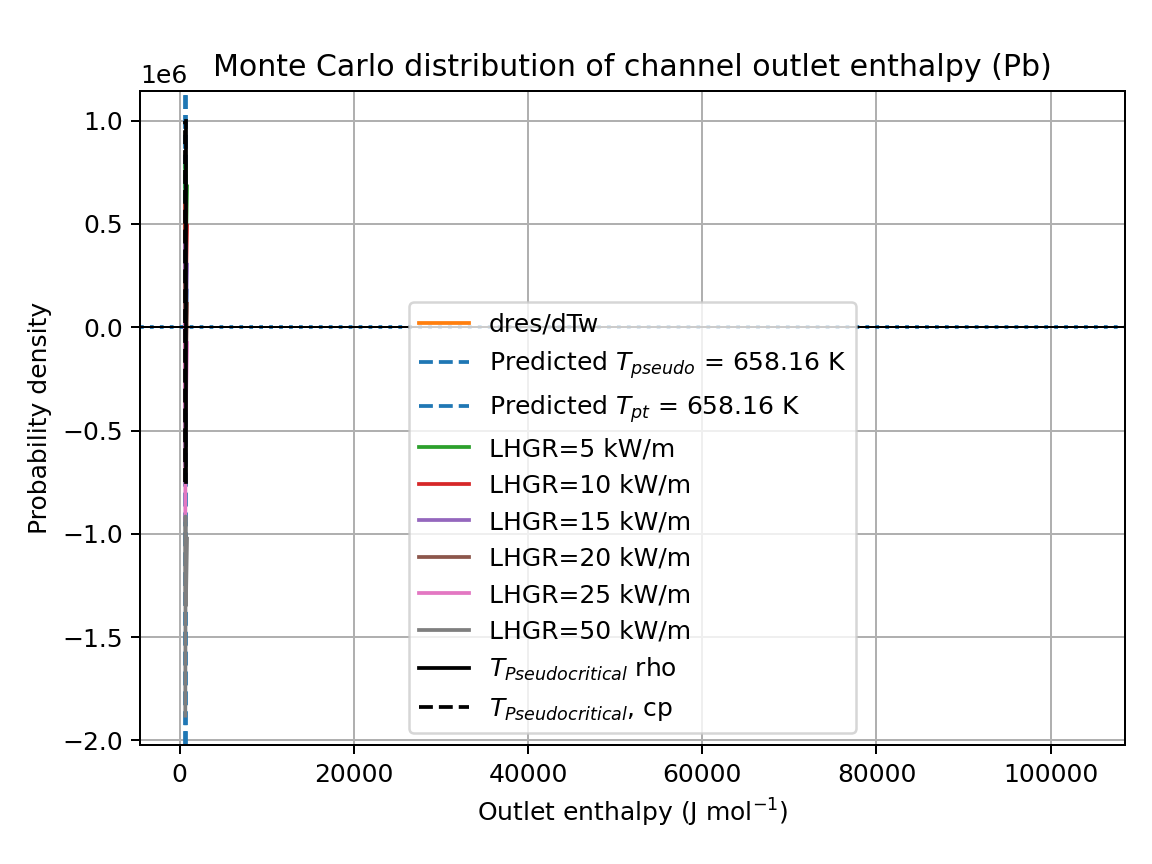
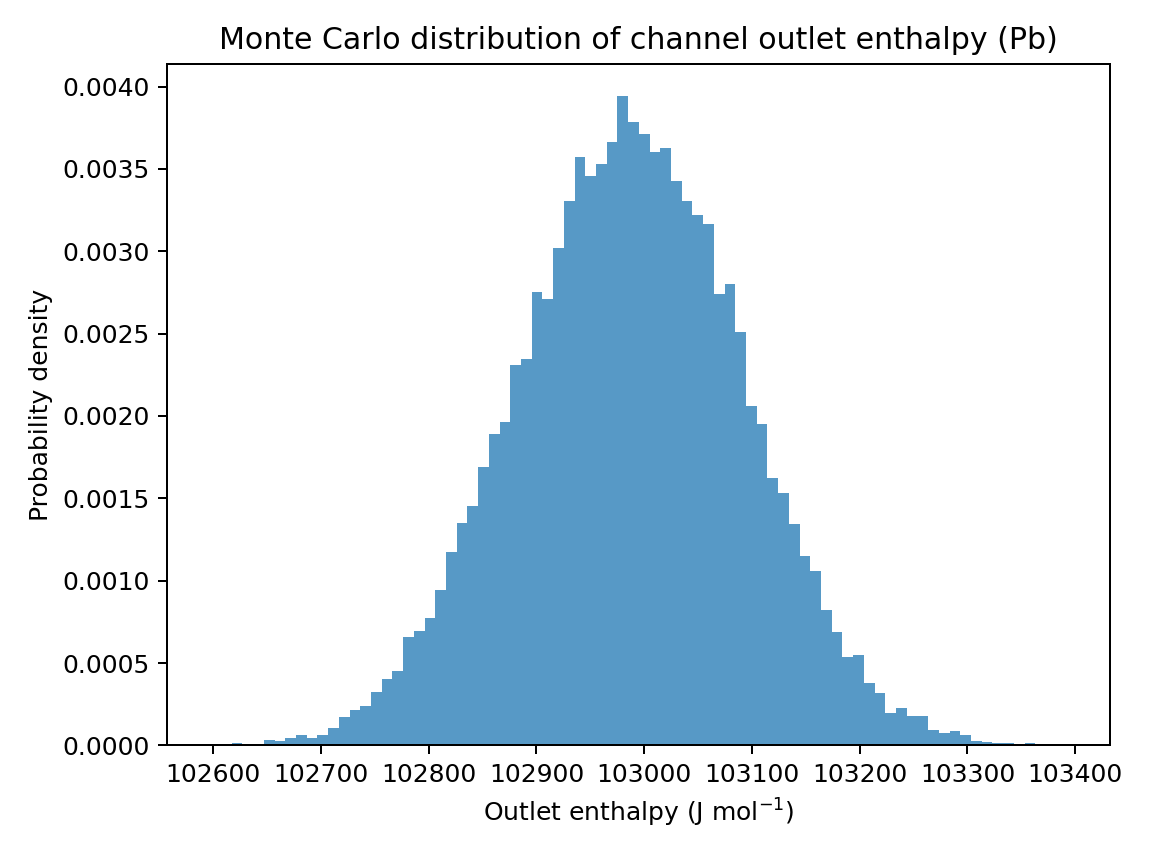
Phase 2 review: repair the Phase 1 pin.Bundle regression, record round-4 findings
Three things the Phase 2 agent flagged, checked against git history.

1. sca/lut.py's `ht.Bundle.Weissman` -- real, and introduced by me in
   Phase 1. Bundle lived inside PinHT.py, so `ht.Bundle` resolved until
   the split moved it to correlations/bundle.py and pin/__init__.py did
   not re-export it. sca/lut.py now imports correlations.bundle directly,
   which is a legal downward import. Verified: Weissman(P/D = 1.3889)
   returns 1.493111, matching the published 1.826*R - 1.0430.

2. sca/annular.py's `rho_Tp(..., bisect_iters=...)` against a signature
   of rho_Tp(cls, T, p, newton_iters=60) -- genuinely pre-existing, from
   before the cleanup began. Left alone: sca/ is Phase 5 scope and the
   fix is a choice between dropping the argument and adding bisection
   control to rho_Tp, which changes the solver. Consequence recorded
   plainly in OPEN_QUESTIONS: solve_field has never run end-to-end, so
   the annular axial solve is unverified.

3. docs/DECISIONS.md did contradict itself on D9_SS -- round 1 said leave
   it unimplemented, round 2 said add Hughes' two constants. Round 2
   supersedes; round 1 is marked as such.

Also: docs/reference/MatLib_Info.pdf is PNNL-35702, "MatLib-1.2.1:
Nuclear Material Properties Library", Geelhood et al., March 2024. That
is the source for essentially every model in properties/matmod.py -- the
docstrings already called it "Matlib" and one already cited PNNL-35702 by
[…]

diff --git a/pinthac/sca/lut.py b/pinthac/sca/lut.py
@@ -3,6 +3,7 @@ import numpy as np
 import pandas as pd
 from scipy.interpolate import RegularGridInterpolator
 from pinthac import pin as ht
+from pinthac.correlations import bundle
 from pinthac.properties import matmod as mats
 from pinthac.correlations import htc as htc
 from pinthac.correlations import friction as fric
@@ -93,7 +94,7 @@ def SCA(Inputs):
     Per_w = 2*np.pi*Rco                  # wetted perimeter
     Dh = 4*Ah/Per_w                      # hydraulic diameter
     G = mdot/Ah                          # mass flux
-    psi = ht.Bundle.Weissman(Pitch, D)   # bundle correction factor applied to htc
+    psi = bundle.Bundle.Weissman(Pitch, D)   # bundle correction factor applied to htc
 
     def q_p(z):  # Linear heat generation rate
         return q0*np.cos(np.pi*z/L)

diff --git a/docs/DECISIONS.md b/docs/DECISIONS.md
@@ -9,7 +9,7 @@ original brief, where the two differ.
 | **Scope: lead is a toy** | Ignore the lead / LBE channel in the annular SCA files. Those were experiments. | **D6 is downgraded from a physics bug to a naming defect** — the outer channel already *is* water. Phase 2 renames `TPb_in`/`T_o`/`qpO` to neutral outer-channel names and deletes the misleading `Liquid_Metals` import. No property source changes. `HTC.Lead.Shen` and `Liquid_Metals` stay for the property library and the Phase 7 uncertainty figure, but no SCA path depends on them. |
 | **Scope: transient is elsewhere** | Transient SCA (FD and transient PINN) lives in a separate LWR repository. | `sca/fd.py` is **dropped from the layout**. The CV's "finite-difference and PINN solvers for transient SCA" bullet is satisfied outside this repo; the README will not claim it here. |
 | **Scope: liquid metals** | Do not add second correlations per property. | Q12 closed. The CV's "multiple literature-published correlations per property" bullet is not supported by this repo and will be flagged for rewording at Phase 7, not fixed by writing more code. |
-| **Scope: D9 steel** | No good models exist; leave it. | `MatMod.D9_SS` stays an unimplemented stub, documented as a gap. Manual §1.4 marked "not implemented — no suitable model identified". |
+| **Scope: D9 steel** | No good models exist; leave it. | ~~`MatMod.D9_SS` stays an unimplemented stub.~~ **Superseded by the round-2 decision below**, which adds the two constant properties Hughes supplies. The point stands for any *temperature-dependent* D9 model: none is available and none should be invented. |
 | **Missing correlations** | Implement only what can be implemented *accurately*; otherwise leave it out. | Colebrook: implement (standard, unambiguous). Notter-Sleicher: implement, flagged for your verification. Shen exponent and Wu: **blocked**, no source — see Q13/Q14. |
 | **IAPWS-95 speedup** | The claim is real: ~**96x at 1e6 state points**, GPU vs the CPU `iapws` library. Benchmark outputs are in a backup outside the repo. | Phase 7 re-runs `IAPWS_Benchmark.py` on this machine and reports the measured number with the hardware stated. The 36x on the CV is a stale figure, not an unsupported one. |
 | **Annular sign convention** | Approved: use the corrected inner-surface boundary condition. | Q18 closed. Phase 4 uses the signed `+r` Fourier convention with `Tfo(ri) = Tm,i - q''_i/htc_i`, states the convention in the docstring, and adds the energy-balance invariant `q_i + q_o = q''' pi (r_o^2 - r_i^2)` as a test. |

diff --git a/docs/OPEN_QUESTIONS.md b/docs/OPEN_QUESTIONS.md
@@ -416,3 +416,46 @@ That is enough for a constant-conductivity clad but not a temperature-dependent 
 
 Leave `MatMod.D9_SS` empty as you said, or add the two constants with the citation and a
 docstring saying it is constant-property only?
+
+---
+
+# Round 4 — after the Phase 2 cleanup
+
+## Q31 is now largely unblocked
+
+`docs/reference/MatLib_Info.pdf` turned out to be **PNNL-35702, "MatLib-1.2.1: Nuclear
+Material Properties Library", Geelhood et al., March 2024** — 146 pages, and the source
+for essentially every model in `properties/matmod.py`. The existing docstrings already
+called it "Matlib", and one Zircaloy docstring already cited PNNL-35702 by number.
+
+That supplies the references, valid ranges and uncertainties Phase 2 had to leave as
+`Not established` for the UO2, Zircaloy, HT9 and gas models. Filling them in is Phase 3
+work, not a retrofit of the Phase 2 commits.
+
+Q31 remains open only for the models PNNL-35702 does not cover: the liquid-metal
+correlations in `liqprops.py` (Sobolev / IAEA is named in the manual but the document is
+not in the repository), and `bundle.Weissman`.
+
+## Q32 resolved
+
+`docs/DECISIONS.md` did contradict itself on `D9_SS` — the round-1 entry said to leave it
+unimplemented, the round-2 entry said to add Hughes' two constants. Round 2 supersedes;
+the round-1 entry is now marked as such. Good catch.
+
+## Q34 — status of the two integration bugs
+
+Both were real, and one of them is mine.
+
+- **`sca/lut.py` calling `ht.Bundle.Weissman`.** Pre-existing relative to Phase 2, but
+  *introduced in Phase 1*: `Bundle` lived inside `PinHT.py`, so `ht.Bundle` resolved
+  before the split moved it to `correlations/bundle.py`. Fixed — `sca/lut.py` now imports
+  `correlations.bundle` directly, which is a legal downward import.
+- **`sca/annular.py` calling `iapws95.rho_Tp(..., bisect_iters=...)`** when the signature
+  is `rho_Tp(cls, T, p, newton_iters=60)`. Genuinely pre-existing, from before the
+  cleanup began. Left alone deliberately: `sca/` is Phase 5 scope and the fix is a choice
+  between dropping the argument and adding the bisection control to `rho_Tp`, which
+  changes the solver. Recorded here so it is not forgotten.
+
+Consequence worth stating plainly: **`sca/annular.py::solve_field` has never run
+end-to-end**, so the annular axial solve is unverified. Only its `closure()` has been
+exercised.
